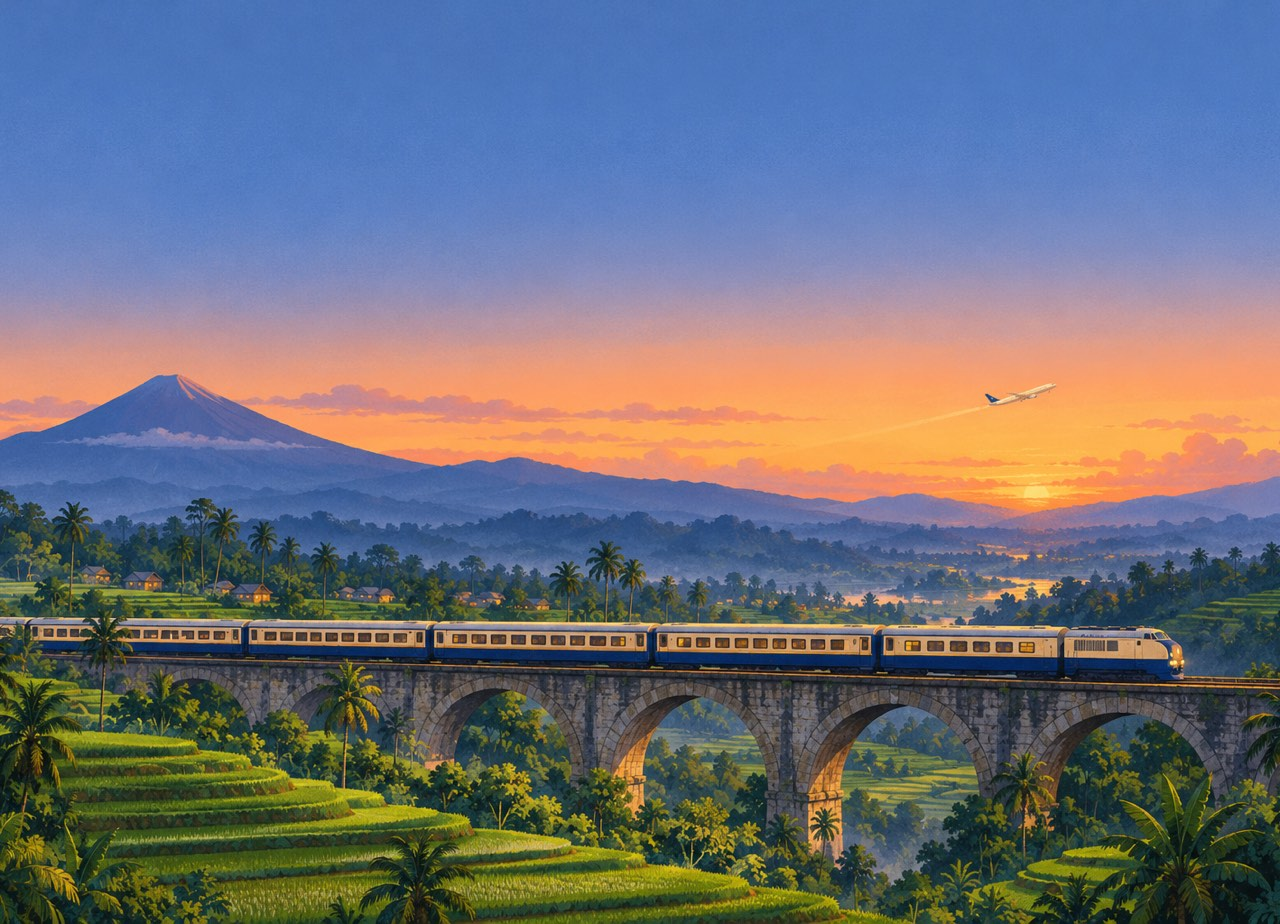
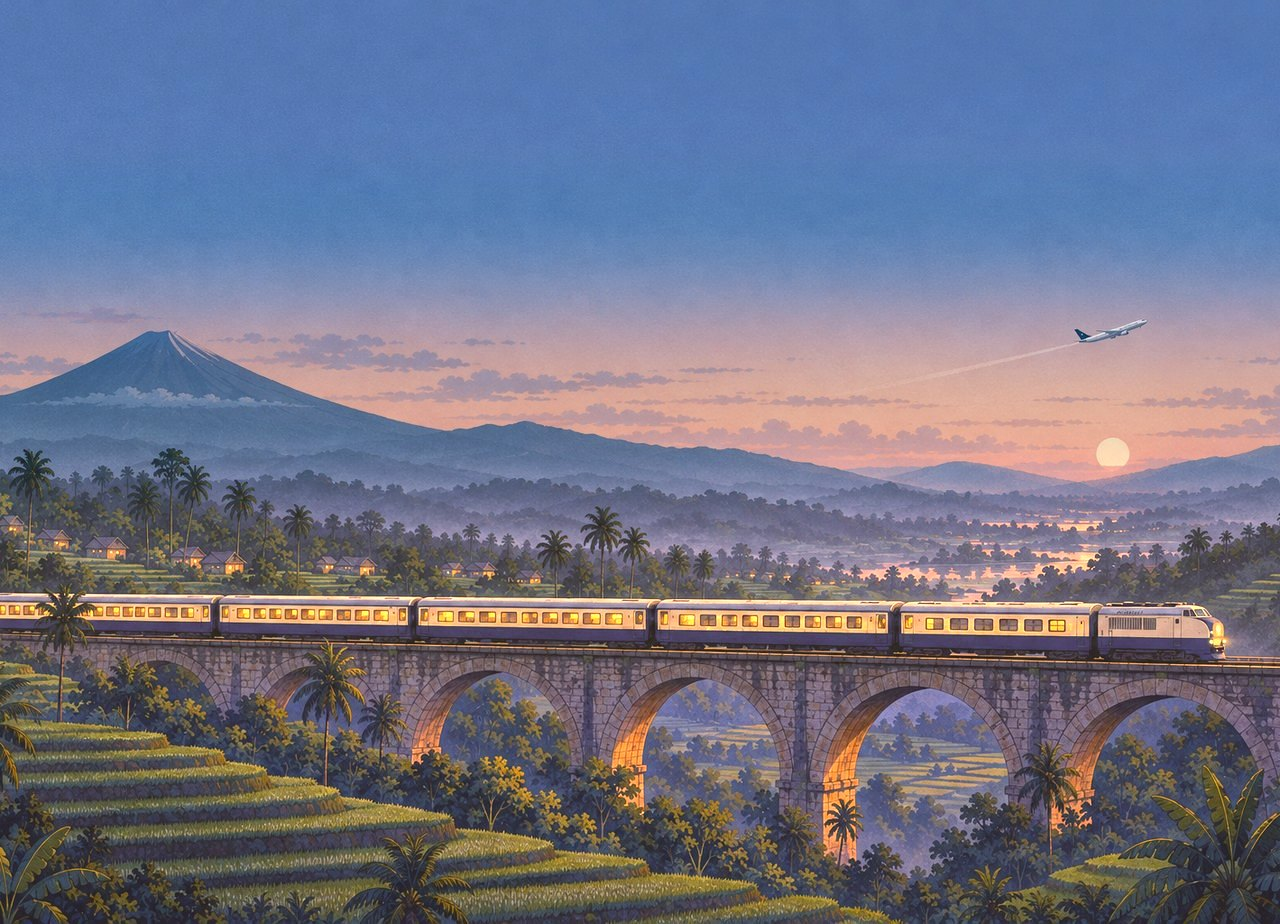
交通頁插畫重畫成黃昏色調並對色，跟其他頁首插畫一致（原版夕陽太橘、梯田太綠）

diff --git a/lq.js b/lq.js
@@ -25,7 +25,7 @@ window.LQ = {
[8 lines of base64/hex data omitted]

diff --git a/data.js b/data.js
@@ -68,7 +68,7 @@ window.TRIP = {
     plane: { src: "img/plane.jpg", what: "Berangkat", by: "AI (OpenAI Codex)", top: "#5279be" },
     home: { src: "img/home.jpg", what: "Pulang", by: "AI (OpenAI Codex)", top: "#557ab6" },
     "p-info": { src: "img/p-info.jpg", what: "Bandara Ngurah Rai", by: "AI (OpenAI Codex)", top: "#557ab6" },
-    "p-transport": { src: "img/p-transport.jpg", what: "Kereta di Jawa", by: "AI (OpenAI Codex)", top: "#4f79bf" },
+    "p-transport": { src: "img/p-transport.jpg", what: "Kereta di Jawa", by: "AI (OpenAI Codex)", top: "#5579b4" },
     "p-learn": { src: "img/p-learn.jpg", what: "Pasar", by: "AI (OpenAI Codex)", top: "#5a78ac" },
     "p-money": { src: "img/p-money.jpg", what: "Warung", by: "AI (OpenAI Codex)", top: "#5478b5" },
     "p-pack": { src: "img/p-pack.jpg", what: "Dermaga", by: "AI (OpenAI Codex)", top: "#6086c0" }

diff --git a/sw.js b/sw.js
@@ -6,7 +6,7 @@
 // 下面兩段由 make-sw.sh 自動產生：新增或換掉 img/ 的圖之後跑一次 ./make-sw.sh（make-lq.sh 會順便跑）。
 
 // <make-sw>
-var VERSION = "6aed4c11a4";
+var VERSION = "f960868f31";
 var FONT_CSS = "https://fonts.googleapis.com/css2?family=Archivo+Black&family=IBM+Plex+Mono:wght@400;500;600&family=Noto+Sans+TC:wght@400;500;700;900&display=swap";
 var ASSETS = [
   "./",

diff --git a/HANDOFF.md b/HANDOFF.md
@@ -51,7 +51,7 @@
 - 封面用的是裁過的 `img/cover-1..6.jpg`（1280×924，從 1024×1536 原圖的 y=680 開始裁，使用者確認過位置）；`top` 是封面圖最頂端 16 列的顏色（淡紫到蜜桃），大字跟著每張變色；圖框頂端 30% 鋪實心同色再漸淡，字壓進圖的下半截才不會有破綻（2026/10/30 使用者選這版）。
 - 封面輪播在 iPhone 上：只靠 CSS `touch-action: pan-y` 不夠，手指稍斜就被 Safari 當成上下捲動、輪播卡住（2026/10/30 使用者回報）。現在 `touchmove`（非 passive）在手指第一次移動時判斷方向，偏左右就 `preventDefault()` 擋掉捲動，偏上下才放行；被取消時用最後一次的手指位置。Chrome 測不出這個問題；使用者 2026/10/30 在 iPhone 實機確認可以左右滑了。
 - 小彩蛋（2026/10/31）：點首頁封面左上角的星星（`.egg-btn`，只有封面的星星會反應），中間彈出 250px 小卡片：Codex 畫的 `img/egg.jpg`（試算表的格子飄上去變成八角星，旁邊站著使用者的小寵物 ClaudePet 螃蟹，參考 `~/Desktop/小寵物-CC用/動作參考/正面照.png`），下面兩行小字「從一張試算表開始」＋「made with Claude」（三語）。點任何地方關閉、Esc 也可以。彩蛋刻意不壓暗背景，卡片帶陰影直接浮在封面上（2026/10/31：有遮罩時 iPhone Safari 狀態列會慢半拍變暗，試了兩種修法都沒用，和使用者決定拿掉遮罩）。桌布浮層仍有深色遮罩，打開當下用 `barTint()` 把頂部色帶（`body::before`）換成「底色疊遮罩」的實心顏色、疊到遮罩上面，關閉時還原；桌布浮層也一樣。原因：iOS 26 的 Safari 不看 theme-color，狀態列顏色取自貼在畫面最上緣的實心固定元素，半透明淡入中的遮罩它不採用，所以頂部會慢半拍才變暗（2026/10/31 使用者回報；只改 theme-color 的第一版在手機上沒效）。先試過用 SVG 方格拼成星星的動畫，使用者覺得方格太多，改成插畫。
-- 交通頁 `#transport`（2026/10/31，頁首插畫 `p-transport`＝爪哇火車過石拱橋，Codex 畫；選單第 4 項、轉盤第 4 張，No.#04；之後的旅遊資料、學印尼文、匯率、行李順延成 05–08）：大字 `tiket`，`TRIP.tickets` 一段一張登機證樣式的票卡（代碼大字、名稱、時間三列對齊，中間虛線撕線、兩側半圓缺口），點票卡跳到那天。每日頁的「返回」回到進來的那一頁（`dayBack`：從交通頁進來就回交通頁，換天時保留，直接開網址就回日期列表；2026/10/31 使用者要求）。旅遊資料頁拿掉原本的「機票和火車」段。選單小圖 `img/m-transport.jpg` 是 Codex 畫的：登機證疊火車票，兩張都直放（轉盤的扇形很窄，橫的票會被裁到只剩空白），背景照其他選單圖的藍到粉蜜桃（2026/10/31 重畫，使用者選 B 版）。轉盤測試的預期順序已改成 8 張。
+- 交通頁 `#transport`（2026/10/31，頁首插畫 `p-transport`＝爪哇火車過石拱橋，Codex 畫；2026/11/01 重畫成黃昏色調再對色（原版夕陽太橘、梯田太綠，使用者發現跟其他張不一致）；選單第 4 項、轉盤第 4 張，No.#04；之後的旅遊資料、學印尼文、匯率、行李順延成 05–08）：大字 `tiket`，`TRIP.tickets` 一段一張登機證樣式的票卡（代碼大字、名稱、時間三列對齊，中間虛線撕線、兩側半圓缺口），點票卡跳到那天。每日頁的「返回」回到進來的那一頁（`dayBack`：從交通頁進來就回交通頁，換天時保留，直接開網址就回日期列表；2026/10/31 使用者要求）。旅遊資料頁拿掉原本的「機票和火車」段。選單小圖 `img/m-transport.jpg` 是 Codex 畫的：登機證疊火車票，兩張都直放（轉盤的扇形很窄，橫的票會被裁到只剩空白），背景照其他選單圖的藍到粉蜜桃（2026/10/31 重畫，使用者選 B 版）。轉盤測試的預期順序已改成 8 張。
 - 背景聲音（2026/10/31）：跟著城市、當地現在的天氣和白天晚上換（`sndScene()`）。城市基本聲：峇里島／台灣＝海浪海鳥 `waves`、普禾加多＝早晨田野鳥叫 `birds`、雅加達／日惹＝熱鬧街道 `city`；那個城市現在在下雨→`rain`；現在是晚上→夜晚蟲鳴蛙叫 `night`（峇里島晚上仍是海浪）。只有每日行程頁會換（用那天的城市）；首頁、選單、交通、旅遊資料等其他頁固定播海浪，不查天氣（網站的招牌聲音，首頁的圖幾乎都有海；2026/10/31 使用者覺得首頁一開就是雨聲很怪而改）。天氣用 Open-Meteo `current=weather_code,is_day,precipitation`，每個城市 15 分鐘查一次，先等天氣（最多 2 秒）再選，免得先播錯的；沒網路就看當地時間（18–6 點算晚上）。換段 3 秒交叉淡化，不用的那段 `stop()` 放掉記憶體（解碼後 1 分鐘約 20MB）。五段錄音都是 BigSoundBank CC0（來源寫在 `sound.js` 開頭），各剪約 1 分鐘、頭尾交叉淡化 4 秒、音量對齊海浪那段（雨聲另外壓在 0.9 以下免得破音）、AAC 96kbps，`snd/*.m4a` 共約 3.9MB，全部存進手機。使用者挑的：海浪 s0267、鳥 D2 s0912、城市 C1 s2676、雨 A1 s1019、夜 B1 s1880；先試過合成海浪（不像）、甘美朗找不到授權乾淨的錄音（Commons 那段是 1928 峇里島、美國要到 2029 才過期）所以日惹改用城市聲。漢堡選單「背景聲音（跟著城市和天氣換）開／關」，預設關、記在 `trip-sound`；iPhone 不准自動出聲，記住是開的話第一次點畫面才開始播；念印尼文時調小；切到背景暫停；靜音鍵打開時聽不到。`window.__sound()` 給測試看狀態（scene、city、wx）。下一步想做：插畫也跟著下雨／晚上變（使用者提的）。
 - 效能（2026/10/30 量過，模擬中階手機）：封面輪播只先載第一張，其他張等第一張出來後才依序載（`data-href`、`cvLoadRest()`，滑動時先載左右兩張）；`index.html` 用 `<link rel="preload" fetchpriority="high">` 先下載 `img/stupa.jpg`。封面大圖出現時間：4G 從 3.1 秒變 2 秒、慢網路從 13 秒變 4–6 秒。換第一張封面圖時，preload 的檔名也要跟著改。
 - 點封面打開浮層（`openWall()`）：暗色遮罩、右上 X、左右箭頭／滑動／方向鍵換張，下面提示「長按圖片，存成手機桌布」（電腦是「按右鍵另存圖片」）。完整桌布在 `wall/wall-1..6.jpg`（1179×2556，天空往上延伸、加了紙紋），只有點開才下載，不在離線預存清單裡。
@@ -61,6 +61,7 @@
 原本計畫用維基共享資源的實景照片，後來改成**由 OpenAI Codex 生成海報風插畫**，13 張全換（含 wedding、plane、home）。
 - 圖在 `img/*.jpg`（1280×924，每張 < 300KB），登記在 `data.js` 的 `TRIP.photos`。`ART.svg()` 看到有 photos 就用圖，否則退回 SVG。
 - 旅遊資料頁最下面的「關於插畫」會說明是 AI 畫的、細節僅供示意（`app.js` 的 `artNote`）。
+- **新插畫顏色要對齊其他張**（2026/11/01 交通頁學到的）：Codex 預設畫得偏鮮豔，看到 sunset 會畫濃橘、看到 green terraces 會畫陽光下的翠綠，參考圖只寫「風格參考」也不會照它的顏色。描述裡要明確寫：地平線是粉蜜桃不是橘、前景在黃昏陰影裡（暗、偏藍紫、綠色低飽和）、只有夕陽和燈是亮的。就算這樣，Codex 畫出來的天空還是常常比其他張更藍更濃，所以畫好後再用程式對色：在 Lab 色彩空間，把新圖分成天空、地平線、前景幾段，每段的平均值和對比對齊到 p-info、p-learn、p-money、slamet 的平均（使用者看過覺得「好多了」）。對完要量 `top`，再跑 `./make-lq.sh`。檢查方法：整張平均飽和度其他張約 0.34–0.38，上緣 20% 約 0.47–0.53。
 - 生成時的共同風格：霧藍天空 #5677ae 漸層到蜜桃色、深藍層疊剪影，**上方 40% 留乾淨天空**給大字；婚禮那張改用蠟染棕 #9a5b33。要重畫某張時沿用這套描述。
 - 2026/10/30 又請 Codex 加了 16 張：App 圖示（`img/icon-180.png`、`icon-64.png`，主畫面名稱「印尼之旅」）、選單小插畫 7 張（`TRIP.menuArt`，168px）、餐廳頁城市美食橫幅 4 張（`TRIP.bands["food-*"]`）、旅遊資料／學印尼文／匯率／行李四頁的頂部插畫（`photos` 的 `p-info`、`p-learn`、`p-money`、`p-pack`，用 `pageHead()` 疊大字）。
 - 圖片先顯示模糊小預覽、載完再淡入：預覽圖在 `lq.js`（`window.LQ`，32px base64），由 `./make-lq.sh` 產生。**新增或換掉 `img/` 裡的插畫、橫幅後要重跑 `./make-lq.sh`**，不然那張圖會沒有模糊預覽（仍會淡入，只是底下是空的）。
